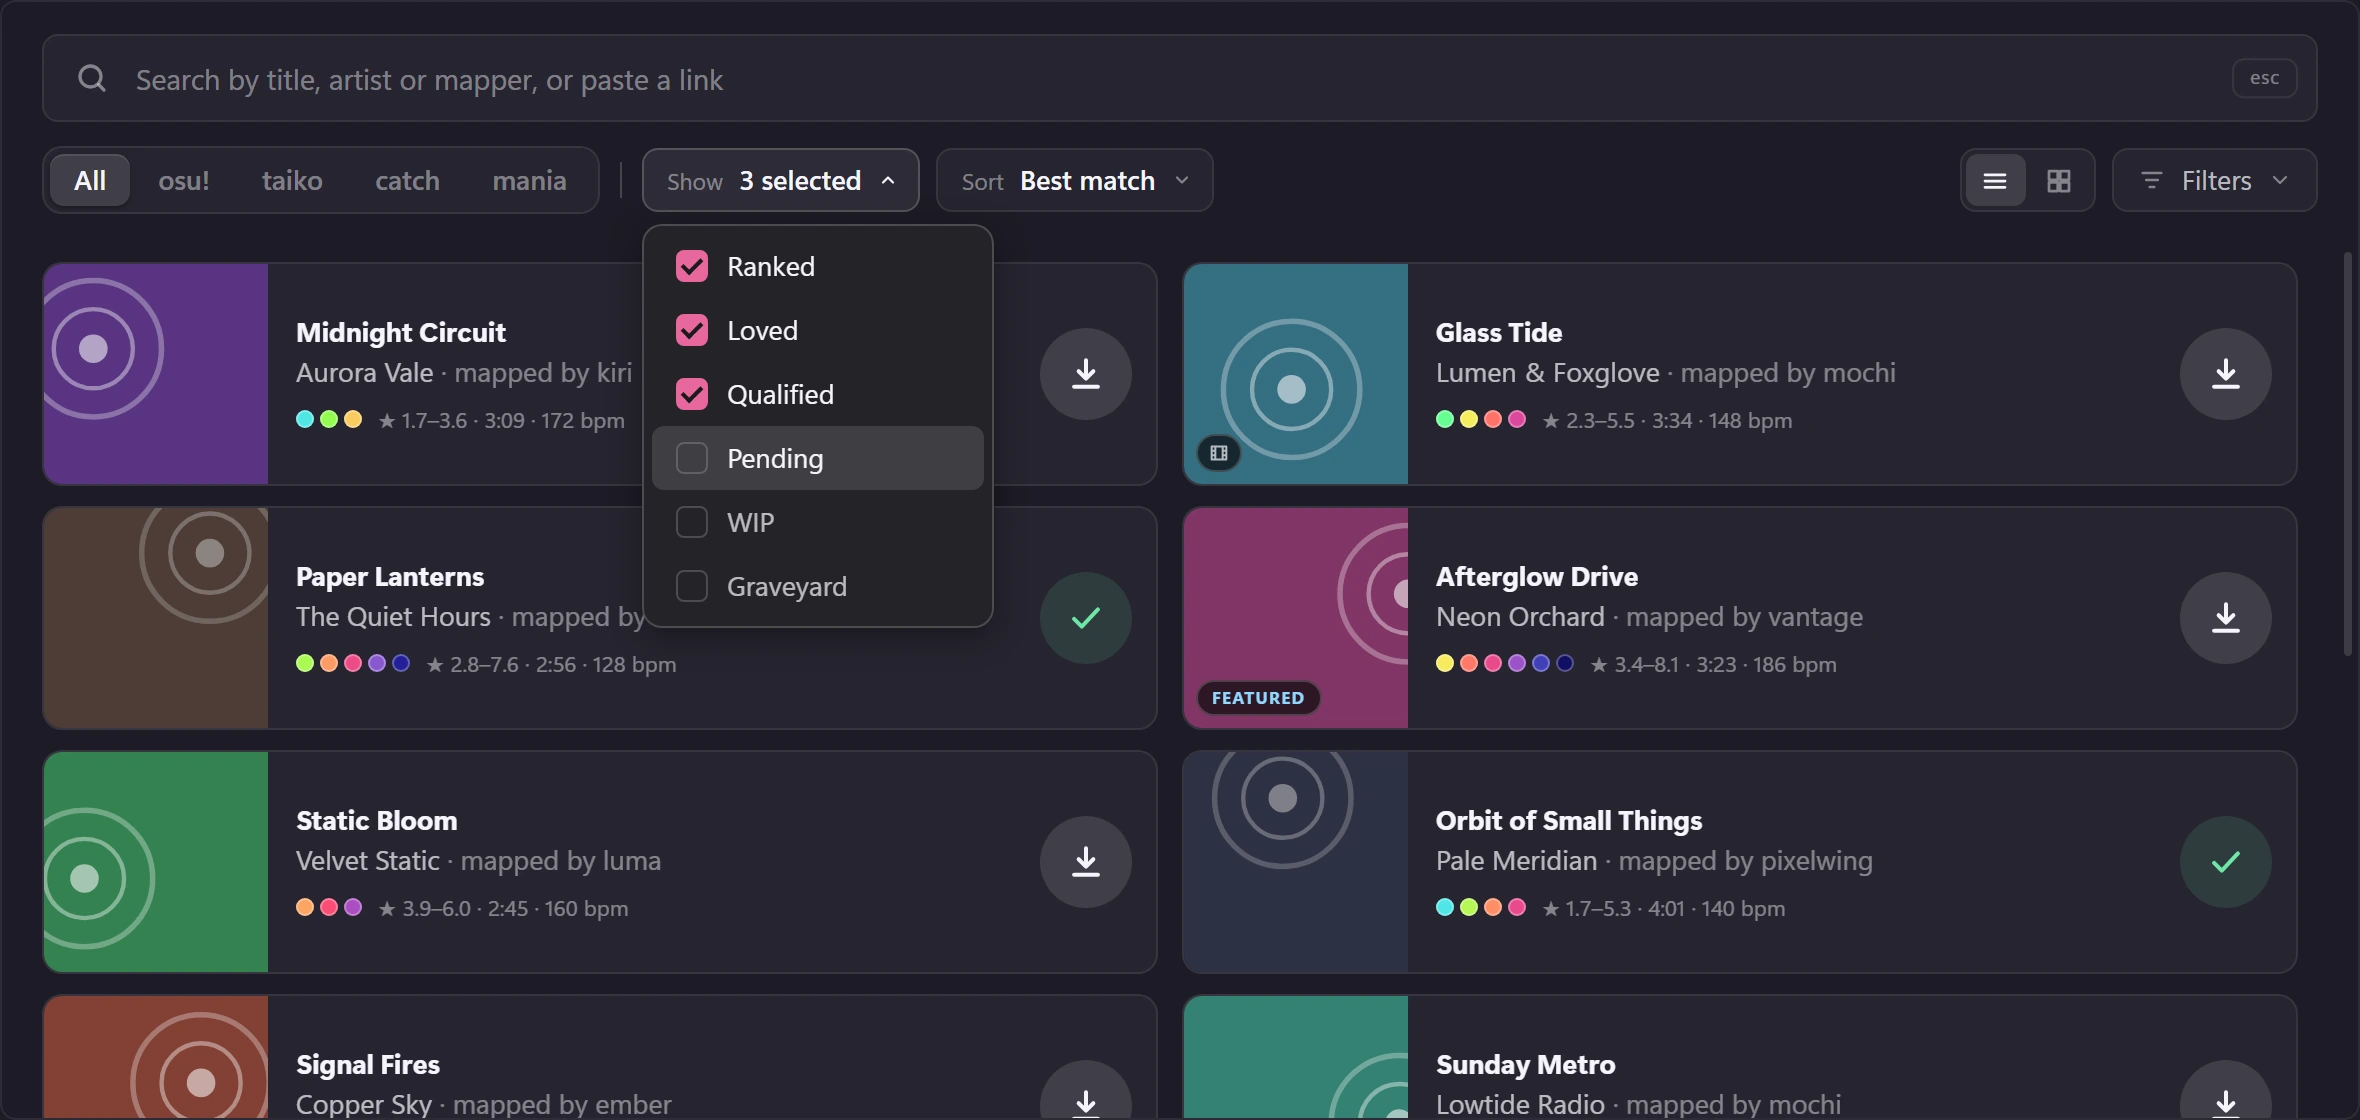
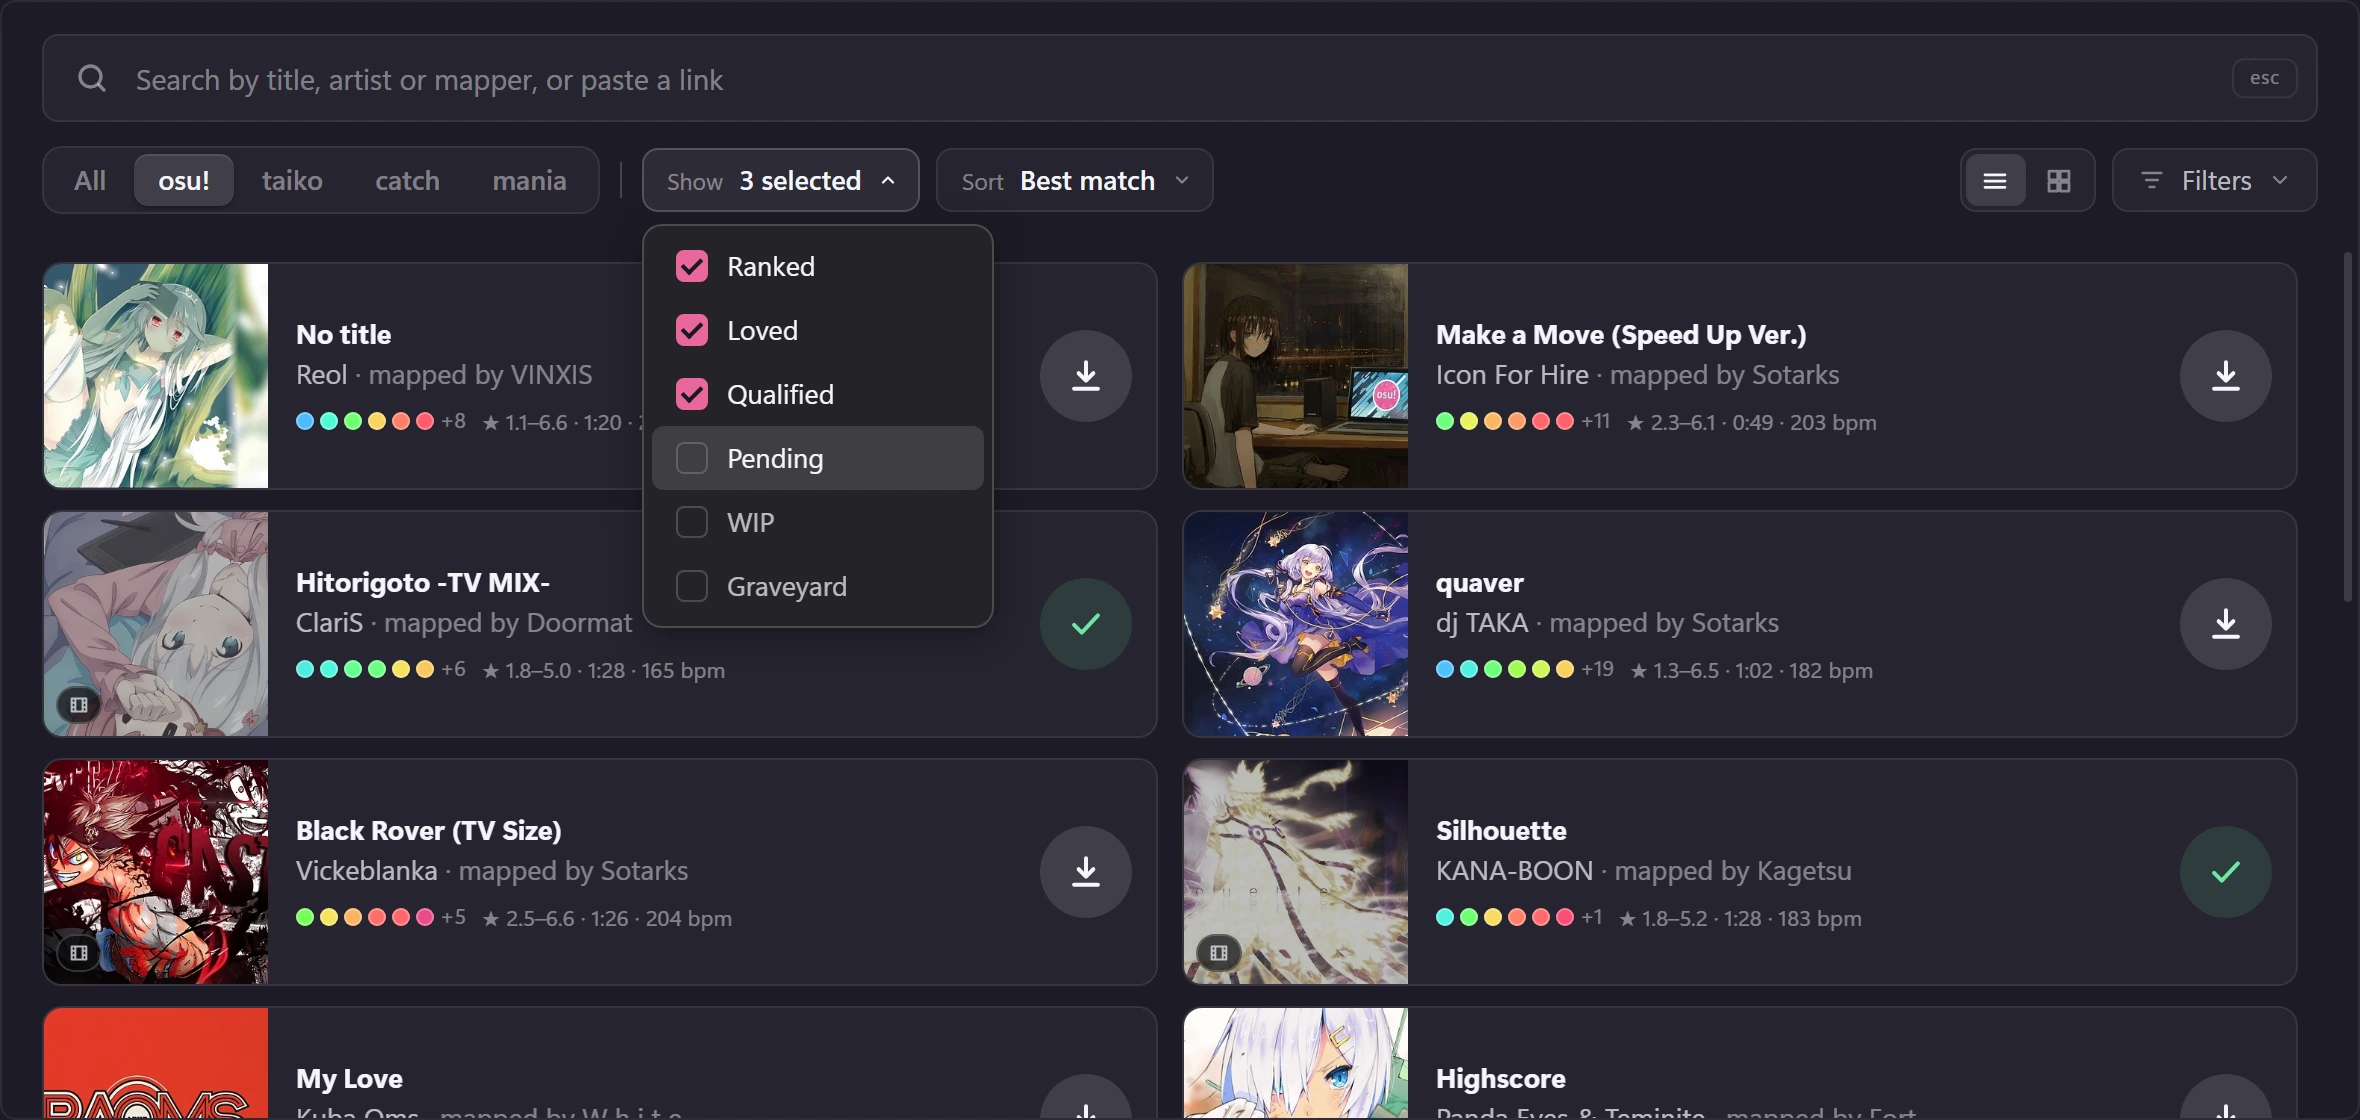
Show real ranked beatmaps in app screenshots

diff --git a/index.html b/index.html
@@ -103,7 +103,7 @@
       <div class="wrap try">
         <div>
           <h2>Demo</h2>
-          <p>Rest your pointer on a map and press <kbd>Enter</kbd>. This is a simulation with invented maps, so nothing is downloaded. On a phone, tap the download button.</p>
+          <p>Rest your pointer on a map and press <kbd>Enter</kbd>. This demo is a simulation, so nothing is downloaded. On a phone, tap the download button.</p>
         </div>
         <div class="demo" id="demo" role="group" aria-label="Interactive demo: rest the pointer on a map and press Enter to download it">
           <ul class="demo-list">
@@ -131,7 +131,7 @@
     <section class="section alt" id="look">
       <div class="wrap">
         <h2>Screenshots</h2>
-        <p class="note">These are the real app, showing invented maps.</p>
+        <p class="note">The real osu!flow interface, showing popular ranked osu!standard maps with their original covers.</p>
         <figure class="shot">
           <img src="assets/img/app-filters.webp" width="1180" height="760" loading="lazy" alt="The Filters panel open, with a slider for each of Stars, AR, CS, OD, HP, BPM and Length along the bottom. Stars, AR and BPM are set." />
           <figcaption>The filters, with the range sliders along the bottom. A slider that is narrowing the results is marked in blue and shows its range.</figcaption>
@@ -225,7 +225,7 @@
         <a href="https://github.com/tempted14/osuflow#code-signing-policy">Code signing policy</a>
         <a href="https://github.com/tempted14/osuflow#privacy">Privacy</a>
       </p>
-      <p class="legal">osu!flow is an independent project, not affiliated with or endorsed by ppy Pty Ltd. osu! and its assets belong to ppy; none are included here. The maps shown on this site are invented. This page sets no cookies and has no trackers; its only request is to GitHub's public API, to show the latest version number.</p>
+      <p class="legal">osu!flow is an independent project, not affiliated with or endorsed by ppy Pty Ltd. Cover art, titles and artists in screenshots belong to their respective owners (ppy, mappers, artists); osu!flow includes none of them. This page sets no cookies and has no trackers; its only request is to GitHub's public API, to show the latest version number.</p>
     </div>
   </footer>
 

diff --git a/README.md b/README.md
@@ -12,7 +12,7 @@ index.html            the page
 404.html              the not-found page (self-contained)
 assets/style.css      all styles
 assets/app.js         scroll reveal, the latest version, and the hover-and-Enter demo
-assets/img/           screenshots of the real app, rendered with invented maps and abstract covers
+assets/img/           screenshots of the real app, showing popular ranked maps and their original covers
 assets/icon.png       the app icon;  assets/og.png  the social-preview image
 robots.txt, sitemap.xml, .nojekyll
 ```
@@ -33,9 +33,9 @@ the same files also work under a project path.
 
 The version number and download link update themselves from the latest GitHub release. By hand, only
 the "New in 3.x" line under the hero and `softwareVersion` in the page's structured data change when
-there is a release worth announcing. The screenshots come from the app's own UI; the maps in them are
-invented, so no one's cover art is shown.
+there is a release worth announcing. The screenshots come from the app's own UI, showing real ranked maps. The reproducible screenshot
+tooling and curated fixture live in the app repository under `tools/headless/`.
 
 ## Licence
 
-[MIT](LICENSE). osu! and its assets belong to ppy; none are used here.
+[MIT](LICENSE). Cover art, titles and artists in screenshots belong to their respective owners (ppy, mappers, artists); osu!flow includes none of them.
